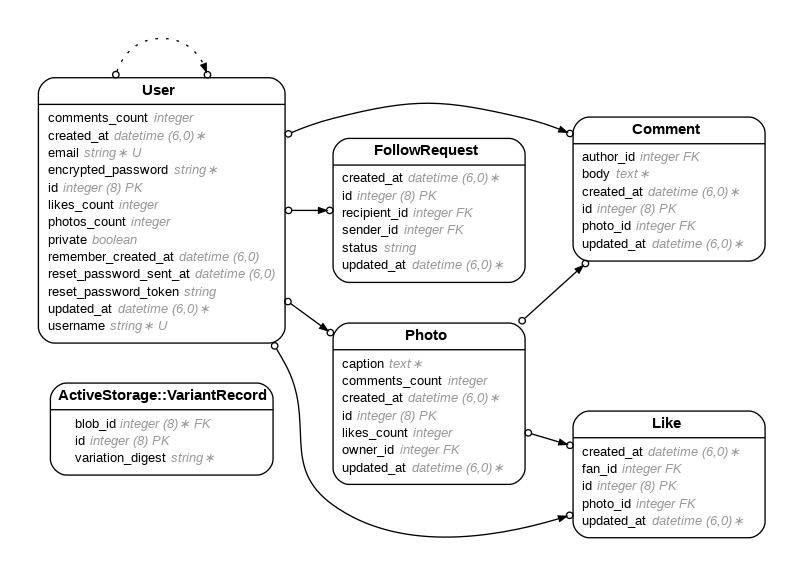
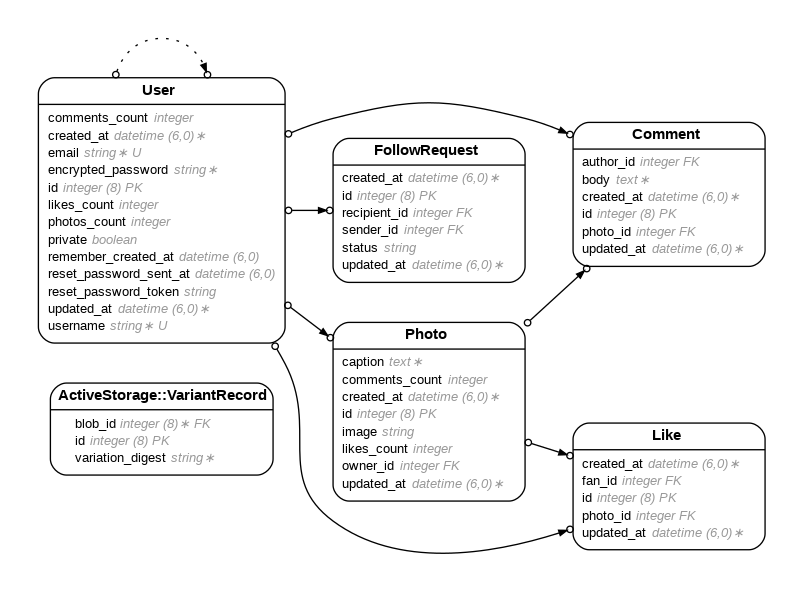
image content

diff --git a/db/schema.rb b/db/schema.rb
@@ -10,7 +10,7 @@
 #
 # It's strongly recommended that you check this file into your version control system.
 
-ActiveRecord::Schema[7.1].define(version: 2024_11_29_164445) do
+ActiveRecord::Schema[7.1].define(version: 2024_11_30_055842) do
   # These are extensions that must be enabled in order to support this database
   enable_extension "plpgsql"
 
@@ -72,6 +72,7 @@ ActiveRecord::Schema[7.1].define(version: 2024_11_29_164445) do
     t.integer "likes_count"
     t.datetime "created_at", null: false
     t.datetime "updated_at", null: false
+    t.string "image"
   end
 
   create_table "users", force: :cascade do |t|

diff --git a/app/models/photo.rb b/app/models/photo.rb
@@ -5,6 +5,7 @@
 #  id             :bigint           not null, primary key
 #  caption        :text
 #  comments_count :integer
+#  image          :string
 #  likes_count    :integer
 #  created_at     :datetime         not null
 #  updated_at     :datetime         not null

diff --git a/config/environment.rb b/config/environment.rb
@@ -1,5 +1,7 @@
 # Load the Rails application.
 require_relative "application"
+require "carrierwave"
+require "carrierwave/orm/activerecord"
 
 # Initialize the Rails application.
 Rails.application.initialize!

diff --git a/db/migrate/20241130055842_add_image_to_photos.rb b/db/migrate/20241130055842_add_image_to_photos.rb
@@ -1,0 +1,5 @@
+class AddImageToPhotos < ActiveRecord::Migration[7.1]
+  def change
+    add_column :photos, :image, :string
+  end
+end
